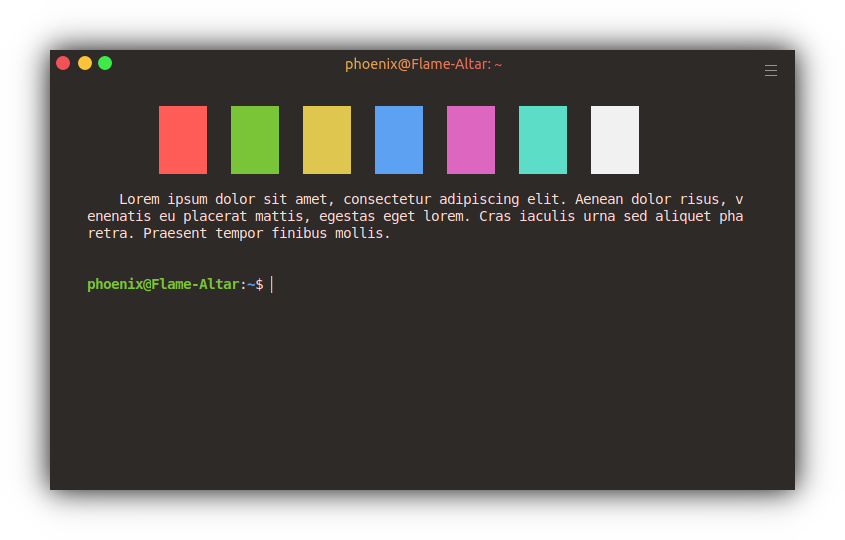
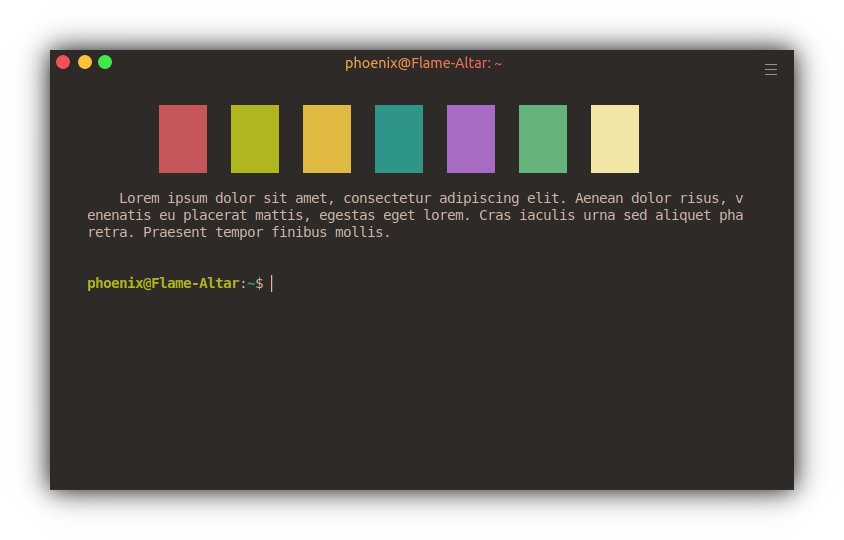
Midnight

diff --git a/index.js b/index.js
@@ -1,13 +1,13 @@
 'use strict';
 
-const foregroundColor = '#FFDDD6'
+const foregroundColor = '#CFB8AB'
 const backgroundColor = '#2a2522'
-const red = '#ff5c57'
-const green = '#79c534'
-const yellow = '#E0C84E'
-const blue = '#5DA3F2'
-const magenta = '#DE66C2'
-const cyan = '#5BDEC8'
+const red = '#C7565A'
+const green = '#B0B81A'
+const yellow = '#E0BB3F'
+const blue = '#2A968A'
+const magenta = '#AA6BC4'
+const cyan = '#65B57B'
 
 exports.decorateConfig = config => Object.assign({}, config, {
 	backgroundColor,
@@ -24,7 +24,7 @@ exports.decorateConfig = config => Object.assign({}, config, {
 		blue,
 		magenta,
 		cyan,
-		white: '#f1f1f0',
+		white: '#F2E7A9',
 		lightBlack: '#686868',
 		lightRed: red,
 		lightGreen: green,
